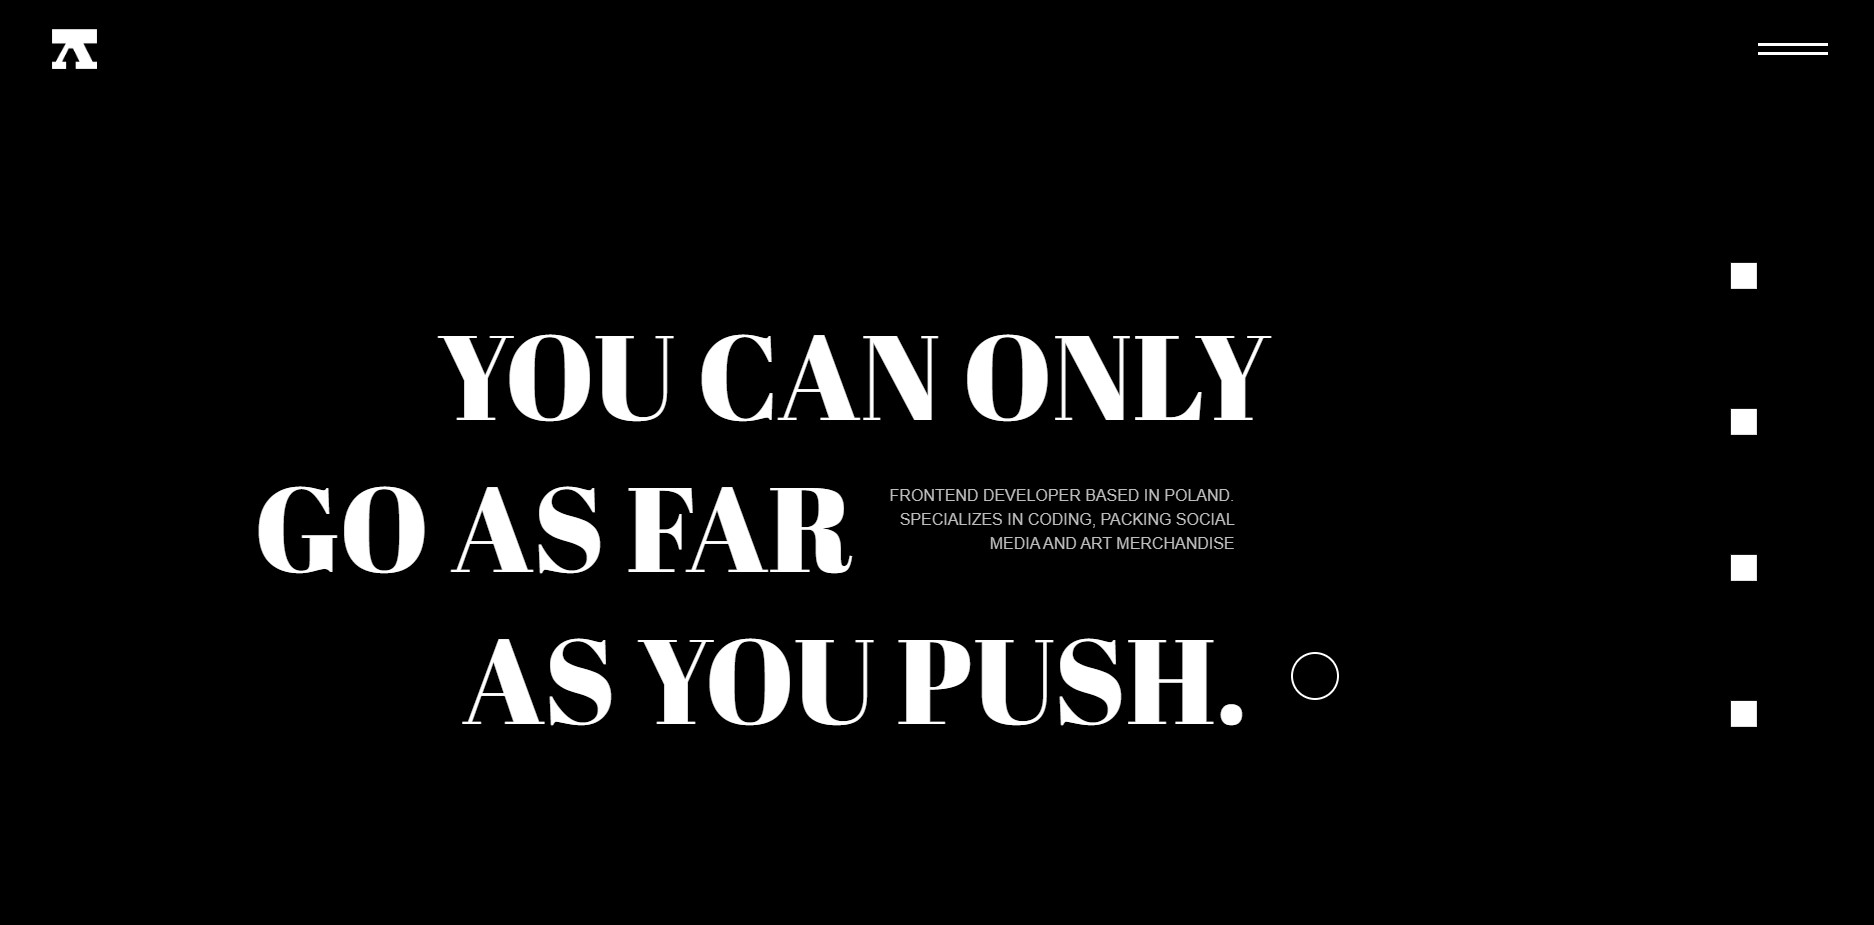
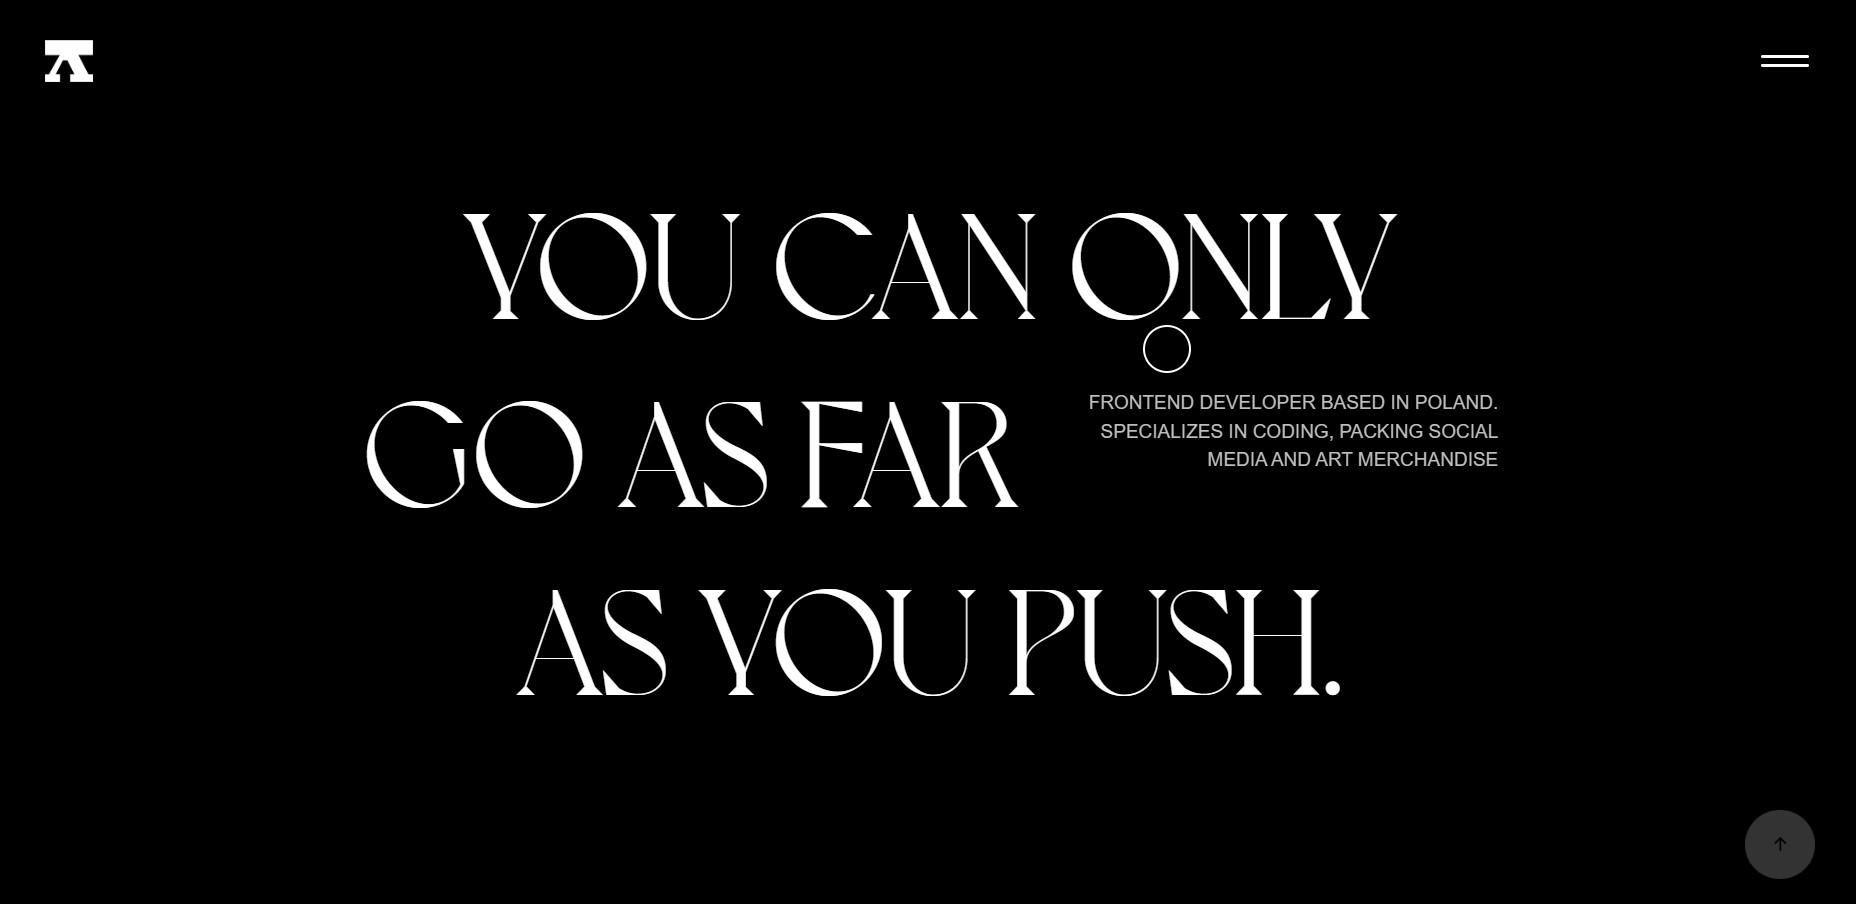
add new photo mobile view

diff --git a/styles/style.css b/styles/style.css
@@ -1,5 +1,8 @@
 @import url("https://fonts.googleapis.com/css2?family=Abril+Fatface&family=Montserrat:wght@100;400;500;700&display=swap");
-
+@font-face {
+  font-family: voyage;
+  src: url("../font/voyage-regular.otf") format("opentype");
+}
 body {
   margin: 0;
   padding: 0;
@@ -26,20 +29,26 @@ html {
   z-index: 999999;
   transition: all 1s ease-in-out;
   top: 0;
-  left: 0;
-  animation: loaderAnimation 2s ease-in-out;
+  left: -200px;
   overflow: hidden;
 }
-
+.animate-preloader {
+  /* Dodaj animację po opóźnieniu */
+  animation: loaderAnimation 1s ease-in-out;
+}
 @keyframes loaderAnimation {
   0% {
-    transform: translateX(-200px) rotate(0);
+    transform: translateX(0px) rotate(0);
   }
   100% {
     transform: translateX(3000px) rotate(0);
   }
 }
-
+@media (max-width: 700px) {
+  .preloader {
+    left: -20px;
+  }
+}
 .loading_section {
   display: grid;
   grid-template-columns: 1fr;
@@ -251,6 +260,7 @@ nav {
     padding-right: 1.5em;
     padding-top: 3em;
     padding-bottom: 3em;
+    background-color: black;
   }
   .hamburger {
     padding-right: 0em;
@@ -622,7 +632,8 @@ nav {
   }
 
   .main_projects .project .project_img {
-    height: 450px;
+    height: 400px;
+    width: 90%;
   }
 
   .main_projects .project .image_description {

diff --git a/data/projects.js b/data/projects.js
@@ -10,14 +10,14 @@ const projects = [
     name: "PORTFOLIO",
     date: "June 30.2023",
     image: "../photos/portfolio/portfolio.jpg",
-    image_mobile: "../photos/js-anim-web/js-anim-web-mobile.jpg",
+    image_mobile: "../photos/portfolio/portfolio_mobile.jpg",
     src: "https://github.com/Mikarrr/karwacki_portfolio_web",
   },
   {
     name: "FUTURISTIC",
     date: "May 15.2023",
     image: "../photos/futuristic/homepage.jpg",
-    image_mobile: "../photos/js-anim-web/js-anim-web-mobile.jpg",
+    image_mobile: "../photos/futuristic/homepage_mobile.jpg",
     src: "https://github.com/Mikarrr/futuristic_shop.git",
   },
 ];

diff --git a/scripts/loader.js b/scripts/loader.js
@@ -1,6 +1,18 @@
+// Oczekaj na załadowanie strony
+window.addEventListener("load", () => {
+  // Pobierz element preloadera
+  const preloader = document.querySelector(".preloader");
+
+  // Opcjonalnie, możesz opóźnić animację na kilka sekund
+  setTimeout(() => {
+    // Dodaj klasę z animacją po opóźnieniu
+    preloader.classList.add("animate-preloader");
+  }, 1000); // 2000 milisekund (2 sekundy) opóźnienia
+});
+
 var loader = document.getElementById("preloader");
 window.addEventListener("load", function () {
   setTimeout(() => {
     loader.style.display = "none";
-  }, 1100);
+  }, 2000);
 });
